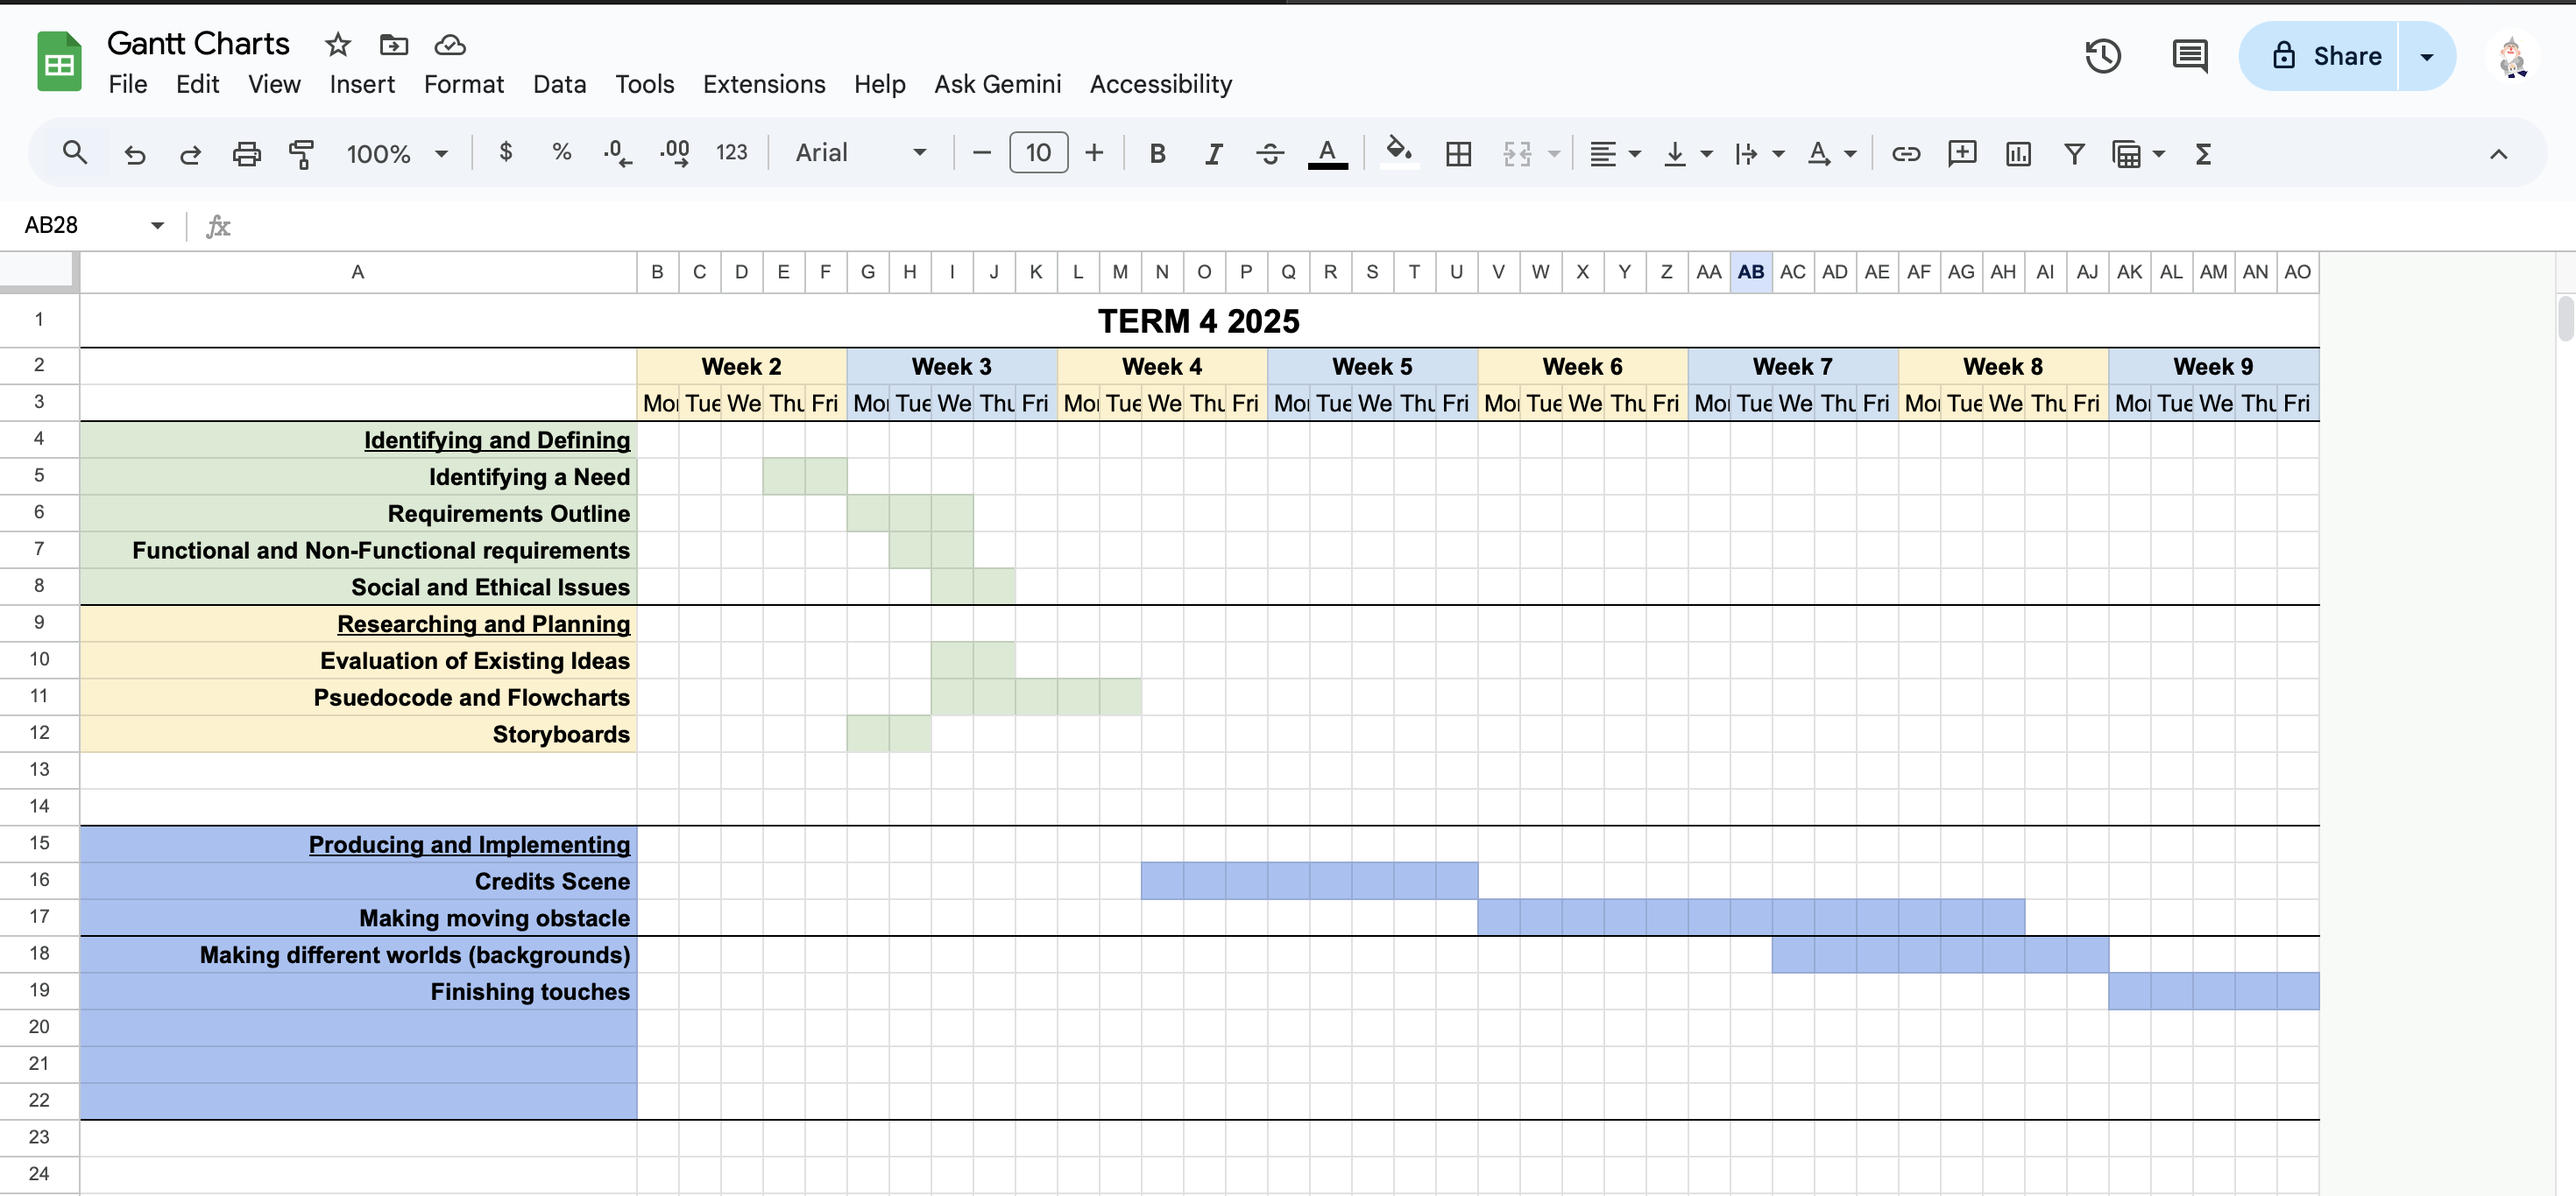
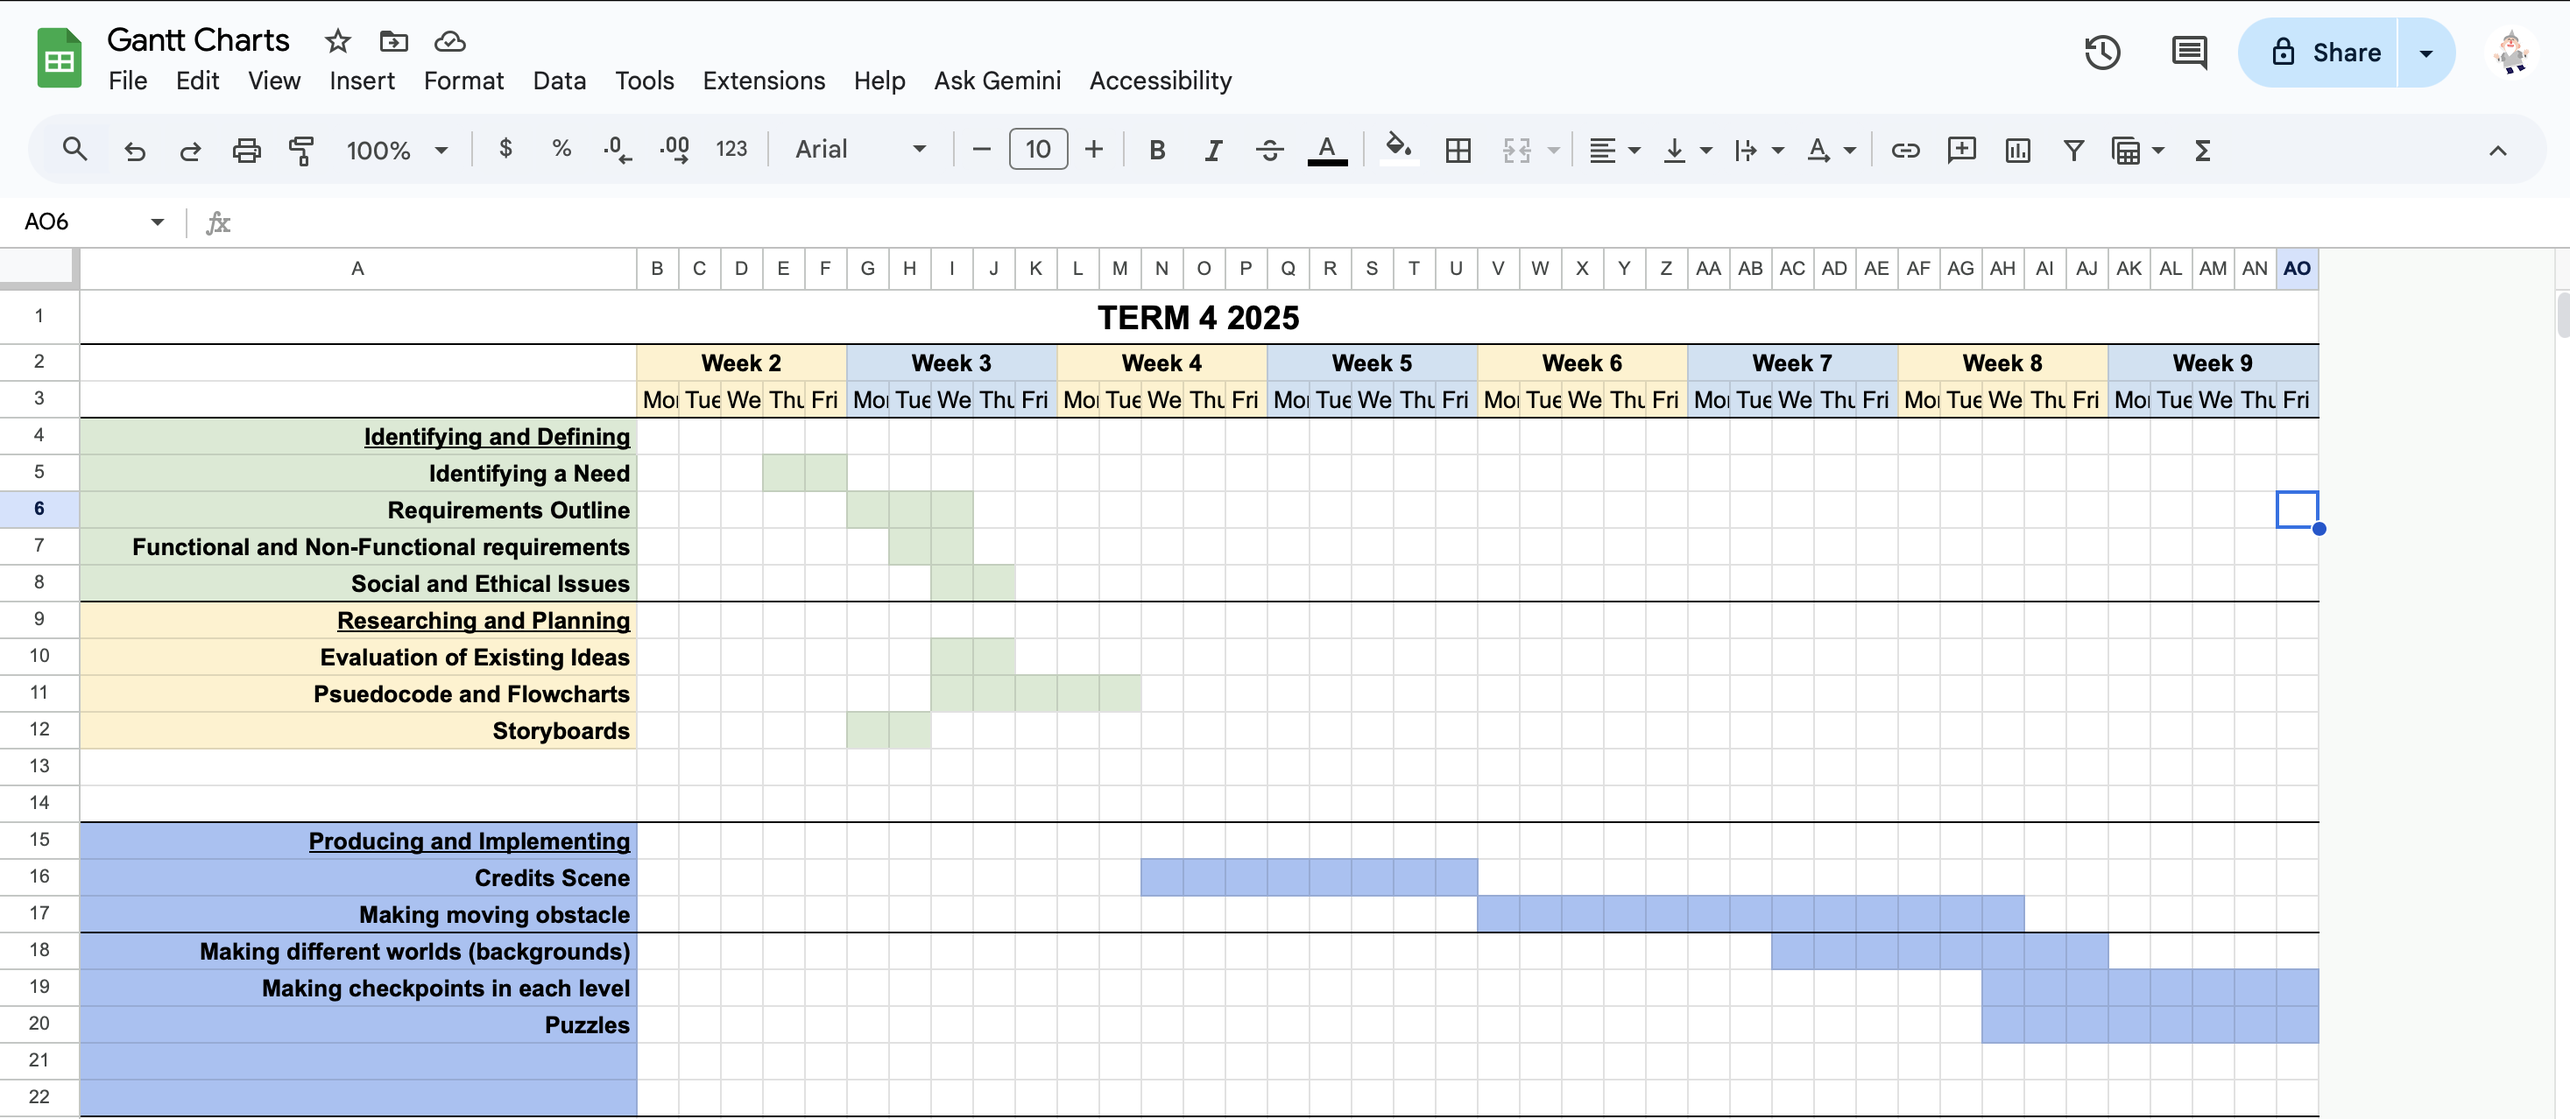
FInishing gantt chart

diff --git a/SoftwareDesignProjectProposal.md b/SoftwareDesignProjectProposal.md
@@ -161,5 +161,5 @@ My storyboards are handed in to Mr Groom because it is on paper. However this st
 
 
 ### Time and Action Plan
-This gantt chart shows how I modeled my time to work on the Assessment and at the rest of year, I would be working on my game.
+This gantt chart shows how I modeled my time to work on the Assessment and at the rest of year, I would be working on my game. These things include more animated obstacles, puzzles and checkpoints if possible.
 ![](GanttChart.png)
